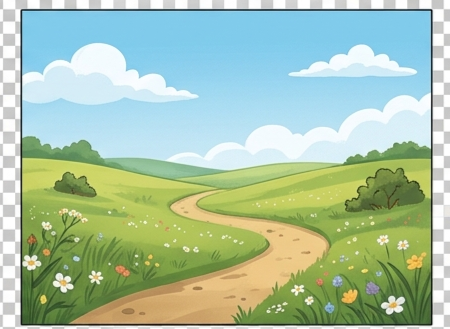
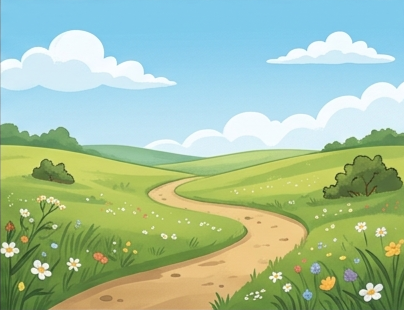
Se agrega el background y las carpeta prompts

diff --git a/cazando.css b/cazando.css
@@ -7,6 +7,7 @@
 }
 
 body{
+
     font-family:'Poppins',sans-serif;
     min-height:100vh;
 
@@ -15,15 +16,42 @@ body{
     justify-content:center;
     align-items:center;
 
-    background:linear-gradient(
-    180deg,
-  #87CEEB 0%,
-  #bde9ff 55%,
-  #77dd77 55%,
-  #4caf50 100%);
+    background:
+    radial-gradient(circle at top,#1e3a8a,#0f172a 70%);
 
     color:white;
+
     padding:30px;
+
+    position:relative;
+    overflow-x:hidden;
+
+}
+
+body::before{
+
+    content:"";
+
+    position:fixed;
+
+    top:0;
+    left:0;
+
+    width:100%;
+    height:100%;
+
+    background-image:url("img/fondo_pradera.png");
+
+    background-size:cover;
+
+    background-position:center;
+
+    background-repeat:no-repeat;
+
+    opacity:.5;
+
+    z-index:-1;
+
 }
 
 h1{